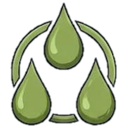
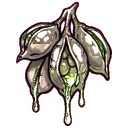
Paint the 30 power sigils, and give the sheet installer a value knob
The sigils were the worst set left: flat vector clip art on a screen
the player opens every run. They are painted objects now -- a shield
boss for Bulwark, a cracked breastplate for Expose, a brazier for
Kindle, a bronze funnel for Siphon, a tally stick for Running Total --
each with a 2-3px ink outline and one saturated accent, six to a
sheet, five sheets.

The set moved from 0.49 mean luminance and 13.1% ink to 0.35 and
25.2%. The bible is 0.30 and 31.4%, and the iso foes are 0.34 and
27.3%, so it is in the family now.

It did not get there by prompting. The first install measured 0.15
with 65.9% ink -- half the brightness it needed -- and the source
sheets measured 0.20, so the art was dark and the pipeline was
honest. That is the third time today a brief has missed a number: the
landmarks came back at 0.10-0.16 an hour ago on the identical wording
of "dark, nothing near white".

So install_sheet.gd gets --luma=N, which install_iso_material.gd has
had since D267. A gain, not a curve, for the reason that file gives:
a gamma would hit the number too and would change the ratio between
the object and its own ink. It is computed over the OPAQUE pixels
only, which is the one difference -- an icon is mostly transparent,
and a mean over the canvas is a mean over the hole in the middle.

The gain is printed per cell, because a gain far from 1.0 is the
number that says the brief and the target disagree.

Known defect: powers/rot_reader.png is a ring with a hole. Its lens
[…]

diff --git a/ART_REDO.md b/ART_REDO.md
@@ -15,7 +15,7 @@ regenerated, so a set that has been re-rolled leaves the table on its own. The
 |---|---|---|---|---|
 | `enemies/`  ← **the bible** | 35 | 0.30 | 31.4% | 1.7% |
 | `iso/foe/` | 70 | 0.34 | 27.3% | 3.4% |
-| `powers/` | 30 | 0.49 | 13.1% | 8.3% |
+| `powers/` | 30 | 0.35 | 25.2% | 2.8% |
 | `relics/` | 38 | 0.58 | 4.9% | 19.9% |
 
 The bible measures **0.30 mean luminance and 31.4% ink**. A set that is far
@@ -25,7 +25,7 @@ from both is not a matter of taste — it is a set drawn to a different brief.
 
 Flat vector clip art: one thin uniform stroke, flat fill, saturated primaries.
 They sit on the Powers screen and on the run header, so the player meets them
-every turn. Measured **0.49 / 13.1% ink / 8.3% blown** against the bible's
+every turn. Measured **0.35 / 25.2% ink / 2.8% blown** against the bible's
 **0.30 / 31.4% / 1.7%**.
 
 **Ask for a painted OBJECT, not a symbol** — the thing the power IS, drawn the
